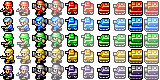
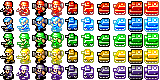
Edité l'IA ainsi que certaines commandes, puis modifié units.png

diff --git a/src/shared/ai/HeuristicAI.cpp b/src/shared/ai/HeuristicAI.cpp
@@ -139,18 +139,24 @@ namespace ai {
 		}
 	}
 	void HeuristicAI::poidDistance() {
-		state::Position pos(0,0);
+		state::Position pos;
 		// Default position : QG
-		for (size_t k=0; k<liste_batiments.size();k++){
+		/*for (size_t k=0; k<liste_batiments.size();k++){
 			if  (liste_batiments[k]->getId_b() == 0){
 				pos = liste_batiments[k]->position;
 			}
+		}*/
+		// Current unit has flag, then has to go home
+		if (jeu->selectedUnit->has_flag) {
+			for (size_t k=0; k<liste_batiments.size();k++){
+				if  (liste_batiments[k]->getId_b() == 0){
+					pos = liste_batiments[k]->position;
+				}
+			}
 		}
-		
 		// Flag captured by ennemy
-		if (flag_allies->is_owned) {
+		else if (flag_allies->is_owned) {
 			for (state::Unite* unite : liste_ennemies) {
-			// TODO : Check if this condition doesn't generate any segfault
 				if (unite->has_flag == flag_allies) {
 					pos = unite->position;
 				}
@@ -160,7 +166,7 @@ namespace ai {
 			state::Batiment* bat = jeu->etatJeu->getBatiment(flag_allies->position);
 			if (not(bat) or bat->getId_b() != 0) {
 				pos = flag_allies->position;
-			} else if (not(jeu->selectedUnit->has_flag)) {
+			} else {
 				// Look for the closest enemy flag
 				if (liste_flags_ennemie.size() > 0){
 					int imp = (jeu->selectedUnit->position - liste_flags_ennemie[0]->position);
@@ -175,8 +181,8 @@ namespace ai {
 						}	
 					}
 				} else {
-					 // Look for enemy carrying a flag
-					 for (state::Unite* unite : liste_ennemies) {
+					 // Look for anyone carrying a flag (escort ally or attack enemy)
+					 for (state::Unite* unite : jeu->etatJeu->getUniteList()) {
 						if (unite->has_flag) {
 							pos = unite->position;
 						}

diff --git a/src/client/main.cpp b/src/client/main.cpp
@@ -374,12 +374,12 @@ void AITest() {
     std::vector<Joueur*> listeJoueurs {joueur1.get(), joueur2.get()};
 
     // Creation d'objets Batiment
-    unique_ptr<Batiment> batiment (new Usine(Position(9, 7), 0));
-    unique_ptr<Batiment> batiment2 (new Usine(Position(12, 12), 1));
-    unique_ptr<Batiment> batiment3 (new Usine(Position(7, 7), 0));
-    unique_ptr<Batiment> batiment4 (new Usine(Position(10, 12), 1));
-    unique_ptr<Batiment> batiment5 (new QG(Position(8, 8), 0));
-    unique_ptr<Batiment> batiment6 (new QG(Position(11, 11), 1));
+    unique_ptr<Batiment> batiment (new Usine(Position(8, 6), 0));
+    unique_ptr<Batiment> batiment2 (new Usine(Position(13, 13), 1));
+    unique_ptr<Batiment> batiment3 (new Usine(Position(6, 6), 0));
+    unique_ptr<Batiment> batiment4 (new Usine(Position(11, 13), 1));
+    unique_ptr<Batiment> batiment5 (new QG(Position(7, 7), 0));
+    unique_ptr<Batiment> batiment6 (new QG(Position(12, 12), 1));
 
     vector<Batiment*> batiments;
     batiments.push_back(batiment.get());

diff --git a/src/shared/engine/CaptureFlagCommand.cpp b/src/shared/engine/CaptureFlagCommand.cpp
@@ -8,16 +8,15 @@ namespace engine {
 		state::Unite* unite = jeu->selectedUnit;
 		state::Flag* flag = jeu->etatJeu->getFlag(unite->position);
 		if (flag and not(flag->is_owned)) {
+			// Check if the flag is in your base
+			state::Batiment* bat = jeu->etatJeu->getBatiment(unite->position);
+			if (bat and bat->getId_b() == 0 and bat->getColor() == unite->getColor()) {
+				std::cout<<"The flag is in your base."<<std::endl;
+				return;
+			}
 			// Check if it is your flag
 			if (flag->color == unite->getColor()) {
-				state::Batiment* bat = jeu->etatJeu->getBatiment(unite->position);
-				// Check if you flag is in your base
-				if (bat and bat->getId_b() == 0 and bat->getColor() == unite->getColor()) {
-					std::cout<<"Your flag is ok."<<std::endl;
-					return;
-				} else {
-					std::cout<<"Your flag has been retrieved."<<std::endl;
-				}
+				std::cout<<"Your flag has been retrieved."<<std::endl;
 			} else {
 				std::cout<<"The flag has been captured."<<std::endl;
 			}

diff --git a/src/shared/engine/DropFlagCommand.cpp b/src/shared/engine/DropFlagCommand.cpp
@@ -13,6 +13,7 @@ namespace engine {
 			state::Flag* flag = unite->has_flag;
 			flag->position = unite->position;
 			flag->is_owned = false;
+			unite->has_flag = nullptr;
 			std::cout<<"The flag has been dropped."<<std::endl;
 		}
 	}
